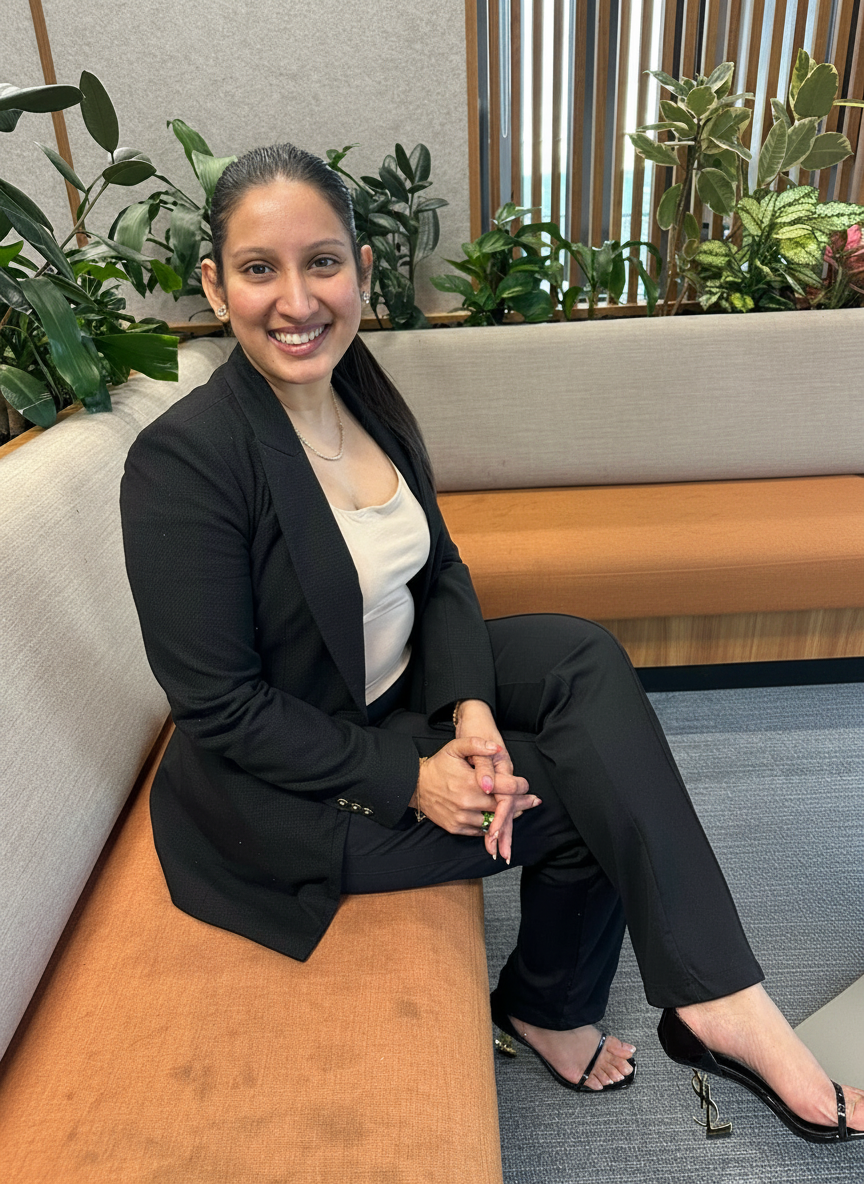
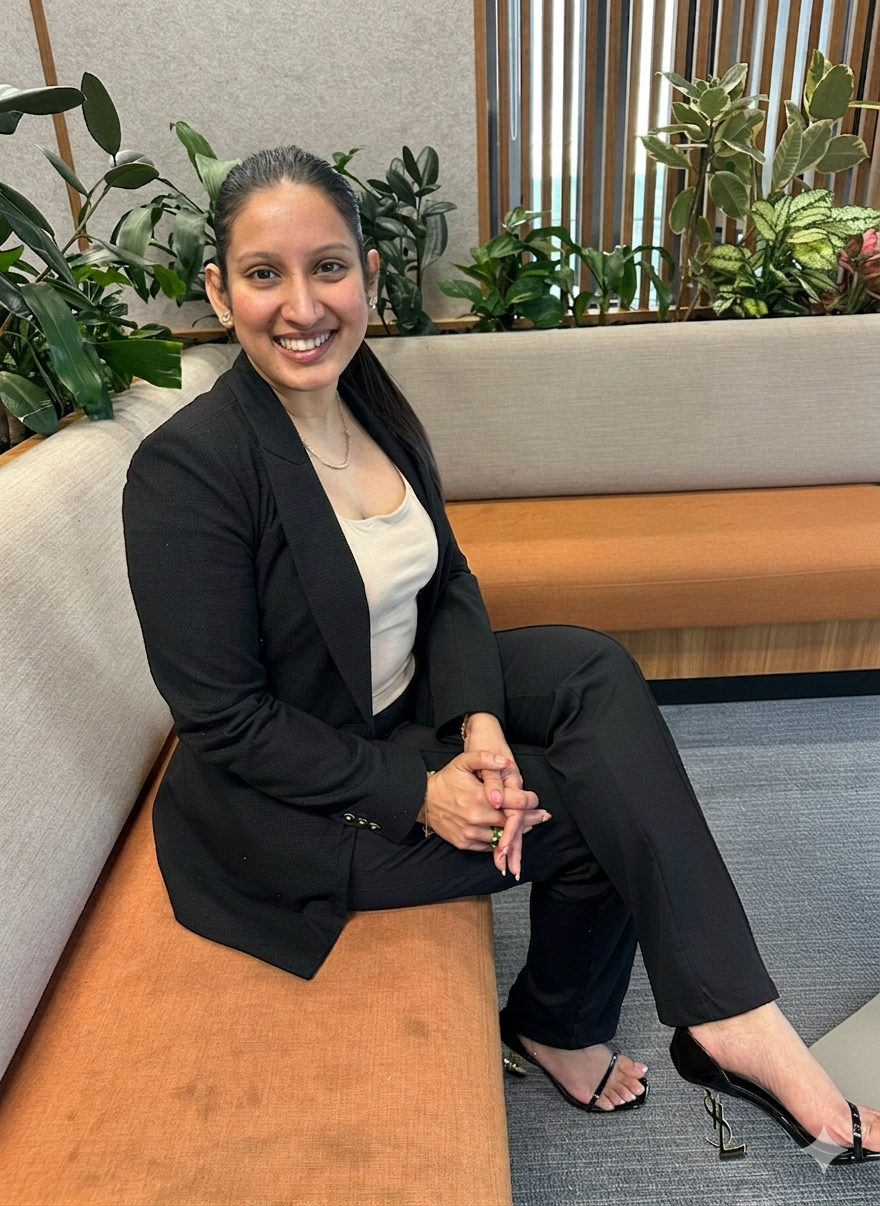
Services cta section changes

diff --git a/src/lib/content/nav.ts b/src/lib/content/nav.ts
@@ -8,7 +8,7 @@ import { SITE_NAME } from "./site";
 export const navBrand: NavBrand = {
   wordmark: SITE_NAME,
   tagline: "Care Streamlined",
-  drawerTagline: "Care Streamlined.",
+  drawerTagline: "Care Streamlined",
   logoAlt: "MedZo logo",
   ariaOpenMenu: "Open menu",
   ariaCloseMenu: "Close menu",

diff --git a/src/styles/global.css b/src/styles/global.css
@@ -134,7 +134,7 @@ html {
   -moz-osx-font-smoothing: grayscale;
   scrollbar-gutter: stable;
   /* Offset anchor-link scroll targets below the sticky nav (≈76px) + breathing room */
-  scroll-padding-top: 7rem;
+  scroll-padding-top: 5rem;
 }
 
 body {
